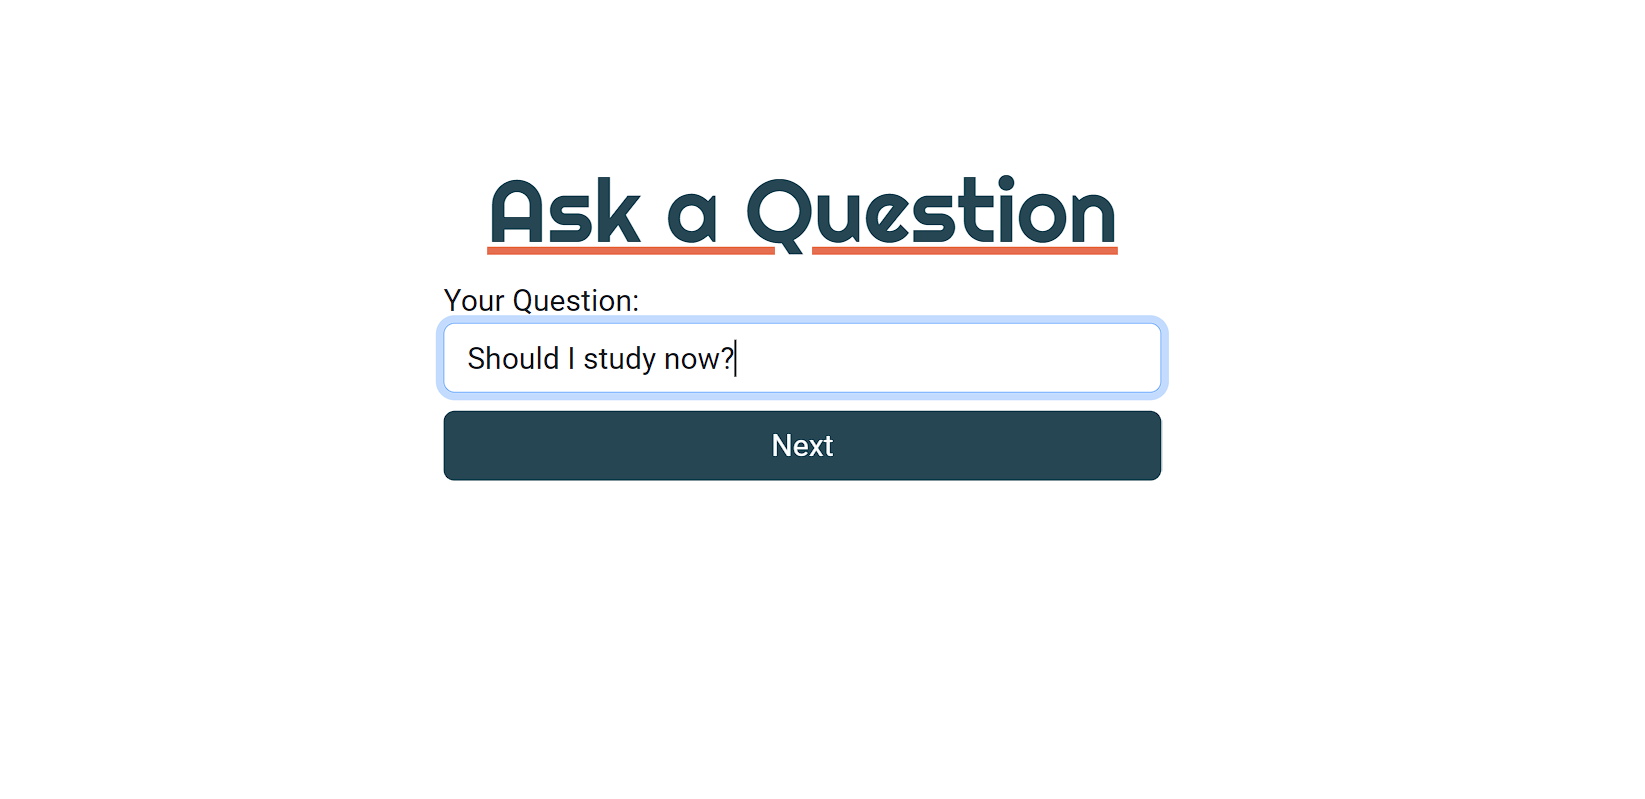
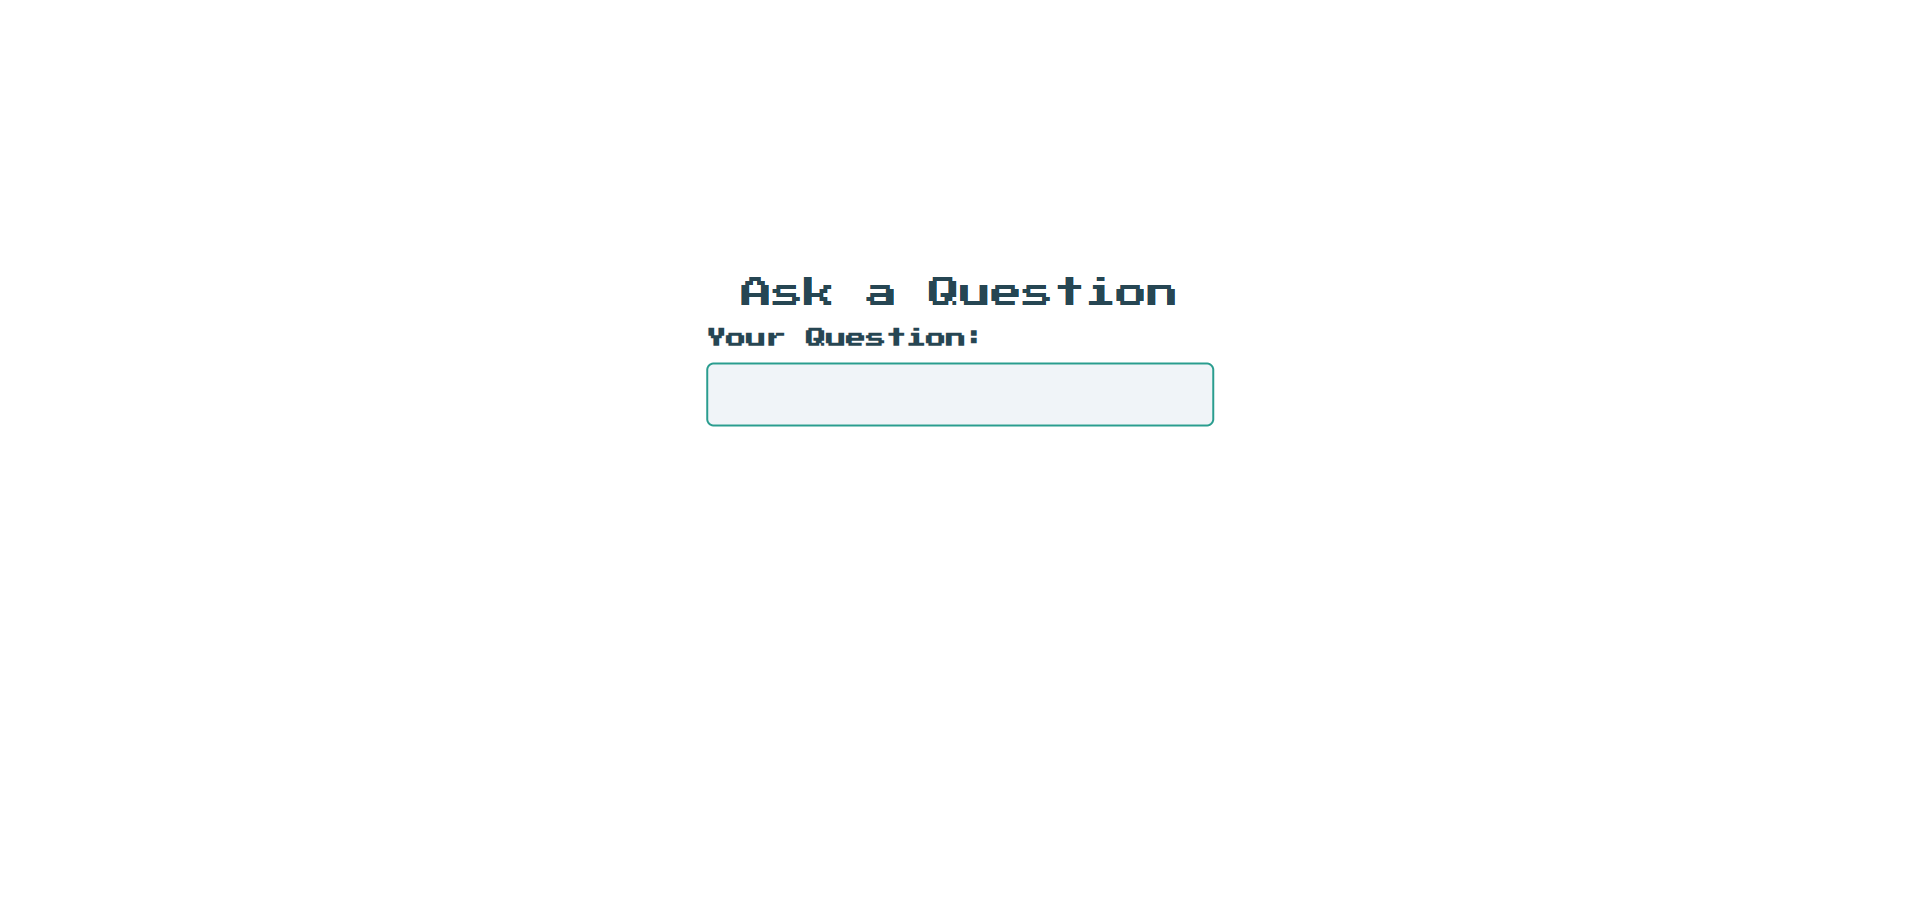
Better UI and added final new picutres of the app

Changed region(s): [[0.248, 0.3605, 0.7131, 0.6008], [0.279, 0.2103, 0.6821, 0.3304]]

diff --git a/src/components/initial.js b/src/components/initial.js
@@ -1,50 +1,50 @@
-import { useRef, useState, useContext } from 'react';
+import { useState, useContext } from 'react';
 import { MyContext } from '../context';
+import "../assets/App.css";
 
 const Initial = () => {
-    const context = useContext(MyContext);
-    const textInput = useRef();
-    const [showNext, setShowNext] = useState(false);
+  const context = useContext(MyContext);
+  const [question, setQuestion] = useState('');
+  const [error, setError] = useState('');
 
-    const handleChange = () => {
-        setShowNext(textInput.current.value.length >= 5);
-    };
+  const handleChange = (e) => {
+    setQuestion(e.target.value);
+    if (error) setError(''); // Clear error on input change
+  };
 
-    const handleSubmit = () => {
-        const value = textInput.current.value;
+  const handleSubmit = () => {
+    if (question.length >= 40) {
+      setError('Question is too long! Please keep it under 40 characters.');
+      return false;
+    }
+    context.question(question);
+    context.goTo(1);
+    return true;
+  };
 
-        if (value.length >= 40) {
-            // Simply block too-long questions silently
-            return false;
-        }
-
-        context.question(value); // Store the question
-        context.goTo(1); // Move to the next screen
-        return true; // Indicate successful submission
-    };
-
-    return (
-        <div>
-            <h1>Ask a Question</h1>
-            <label htmlFor="question">Your Question:</label>
-            <input
-                id="question"
-                ref={textInput}
-                onChange={handleChange}
-                name="question"
-                type="text"
-                className="form-control"
-            />
-            {showNext && (
-                <button
-                    className="btn animate__animated animate__fadeIn"
-                    onClick={handleSubmit}
-                >
-                    Next
-                </button>
-            )}
-        </div>
-    );
+  return (
+    <div>
+      <h1>Ask a Question</h1>
+      <label htmlFor="question">Your Question:</label>
+      <input
+        id="question"
+        value={question}
+        onChange={handleChange}
+        name="question"
+        type="text"
+        className="form-control"
+      />
+      {question.length >= 5 && (
+        <button
+          className="btn animate__animated animate__fadeIn"
+          onClick={handleSubmit}
+        >
+          Next
+        </button>
+      )}
+      {error && <div className="error">{error}</div>}
+    </div>
+  );
 };
 
 export default Initial;

diff --git a/src/assets/App.css b/src/assets/App.css
@@ -10,7 +10,7 @@ body {
 :root {
 --charcoal: #264653;
 --pgreen: #2a9d8f;
---yellow: #e9c46a;;
+--yellow: #e9c46a;
 --orange: #f4a261;
 --sienna: #e76f51;
 }
@@ -63,8 +63,6 @@ font-weight: 800;
 margin-top: 20px;
 }
 
-
-
 .fade-enter {
   opacity: 0;
 }
@@ -78,4 +76,94 @@ margin-top: 20px;
 .fade-exit-active {
   opacity: 0;
   transition: 0.5s;
+}
+
+label {
+  display: block;
+  margin-bottom: 10px;
+  font-weight: bold;
+  color: var(--charcoal);
+}
+
+input.form-control {
+  width: 100%;
+  padding: 12px 15px;
+  font-size: 16px;
+  border: 2px solid var(--pgreen);
+  border-radius: 6px;
+  background-color: #f0f4f8;
+  color: var(--charcoal);
+  transition: border-color 0.3s ease;
+  outline: none;
+}
+
+input.form-control:focus {
+  border-color: var(--orange);
+  background-color: #fff;
+  box-shadow: 0 0 5px var(--orange);
+}
+
+.viewer {
+  font-size: 20px;
+  font-weight: 600;
+  color: var(--charcoal);
+  border: 2px solid var(--pgreen);
+  padding: 15px;
+  border-radius: 8px;
+  margin: 20px 0;
+  background-color: #e0f2f1;
+  min-height: 60px;
+  display: flex;
+  align-items: center;
+  justify-content: center;
+}
+
+.btn {
+  background: var(--charcoal);
+  color: #ffffff;
+  width: 48%;
+  margin: 10px 1%;
+  padding: 10px;
+  font-size: 14px;
+  border-radius: 6px;
+  cursor: pointer;
+  border: none;
+  transition: background 0.3s ease;
+}
+
+.btn:hover {
+  background: var(--orange);
+}
+
+
+.viewer {
+  font-size: 20px;
+  font-weight: 600;
+  color: var(--charcoal);
+  border: 2px solid var(--pgreen);
+  padding: 15px;
+  border-radius: 8px;
+  margin: 20px 0;
+  background-color: #e0f2f1;
+  min-height: 80px;
+  display: flex;
+  align-items: center;
+  justify-content: center;
+}
+
+.btn {
+  background: var(--charcoal);
+  color: #fff;
+  width: 48%;
+  margin: 10px 1%;
+  padding: 10px;
+  font-size: 14px;
+  border-radius: 6px;
+  cursor: pointer;
+  border: none;
+  transition: background 0.3s ease;
+}
+
+.btn:hover {
+  background: var(--orange);
 }

diff --git a/src/components/result.js b/src/components/result.js
@@ -1,5 +1,6 @@
 import { useContext, useEffect } from 'react';
 import { MyContext } from '../context';
+import "../assets/App.css";
 
 const Result = () => {
     const context = useContext(MyContext);

diff --git a/src/components/confirm.js b/src/components/confirm.js
@@ -1,5 +1,6 @@
 import { useContext } from 'react';
 import { MyContext } from '../context';
+import "../assets/App.css";
 
 
 const Confirm = () => {
